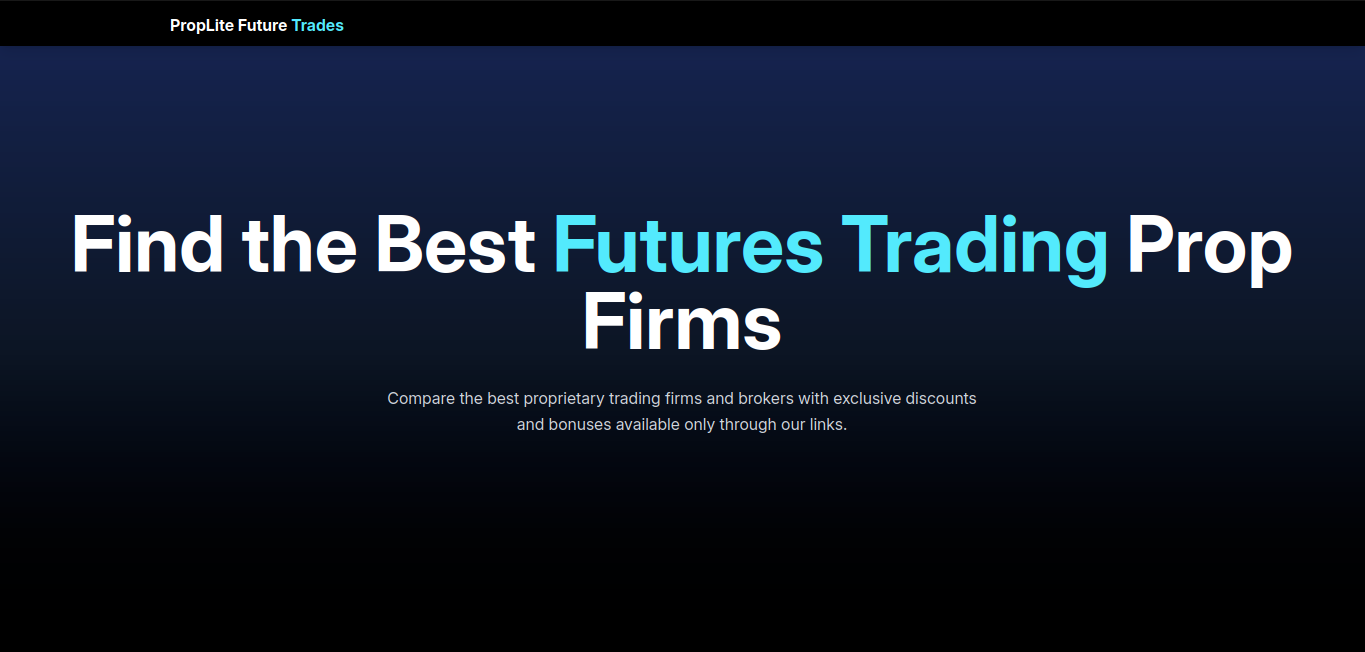
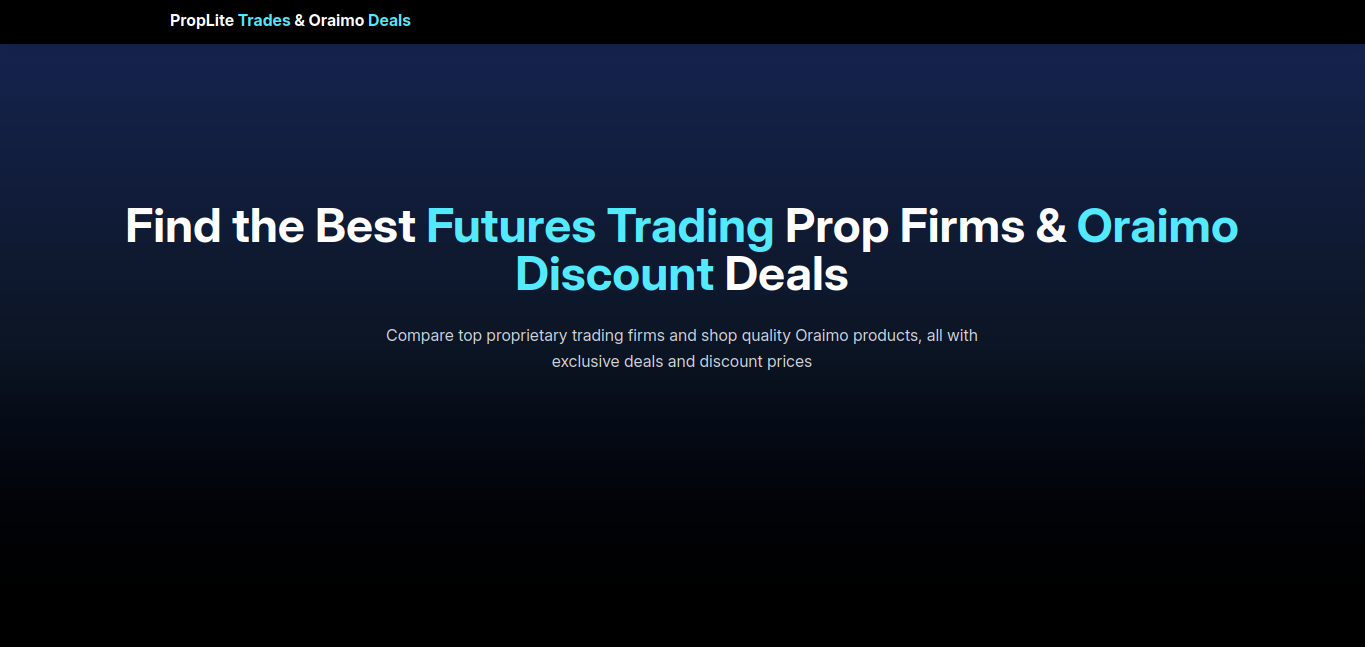
Changed image and small edit

Changed region(s): [[0.0308, 0.3091, 0.9538, 0.6801], [0.1231, 0.0, 0.3077, 0.0618]]

diff --git a/index.html b/index.html
@@ -7,21 +7,21 @@
 	<link href='https://cdn.boxicons.com/fonts/basic/boxicons.min.css' rel='stylesheet'>
 	<link href='https://cdn.boxicons.com/fonts/brands/boxicons-brands.min.css' rel='stylesheet'>
     <title>PropLite Future Trades & oraimo deals</title>
-	<meta name="title" content="PropLite Future Trades – Compare Top Prop Firms & Get Exclusive Bonuses">
-	<meta name="description" content="PropLite Future Trades helps you find the best proprietary trading firms and brokers. Read reviews, compare ratings, and unlock exclusive discounts to start your funded trading journey with confidence.">
+	<meta name="title" content="Proplite trades & Oraimo deals- Compare Top Prop Trading Firms & Shop the Best of Oraimo">
+	<meta name="description" content="Proplite helps you find the best of exclusive funding bonuses & unbeatable discount gadget deals – all in one place.">
 
 	<!-- Open Graph / Facebook -->
 	<meta property="og:type" content="website">
 	<meta property="og:url" content="https://proplite.vercel.app/">
-	<meta property="og:title" content="PropLite Future Trades – Compare Top Prop Firms & Get Exclusive Bonuses">
-	<meta property="og:description" content="PropLite Future Trades helps you find the best proprietary trading firms and brokers. Read reviews, compare ratings, and unlock exclusive discounts to start your funded trading journey with confidence.">
+	<meta property="og:title" content="Proplite trades & Oraimo deals- Compare Top Prop Trading Firms & Shop the Best of Oraimo">
+	<meta property="og:description" content="Proplite helps you find the best of exclusive funding bonuses & unbeatable discount gadget deals – all in one place.">
 	<meta property="og:image" content="/image.png">
 
 	<!-- Twitter -->
 	<meta property="twitter:card" content="summary_large_image">
 	<meta property="twitter:url" content="https://proplite.vercel.app/">
-	<meta property="twitter:title" content="PropLite Future Trades – Compare Top Prop Firms & Get Exclusive Bonuses">
-	<meta property="twitter:description" content="PropLite Future Trades helps you find the best proprietary trading firms and brokers. Read reviews, compare ratings, and unlock exclusive discounts to start your funded trading journey with confidence.">
+	<meta property="twitter:title" content="Proplite trades & Oraimo deals- Compare Top Prop Trading Firms & Shop the Best of Oraimo">
+	<meta property="twitter:description" content="Proplite helps you find the best of exclusive funding bonuses & unbeatable discount gadget deals – all in one place.">
 	<meta property="twitter:image" content="/image.png">
 
 	<!-- Canonical URL -->

diff --git a/src/pages/Home.tsx b/src/pages/Home.tsx
@@ -57,10 +57,7 @@ function Home() {
           <span className="text-cyan-300">Oraimo Discount </span>Deals
         </h2>
         <p className="text-gray-300 text-lg lg:text-xl max-w-3xl mx-auto leading-relaxed">
-          Compare top proprietary trading firms with exclusive discounts — and
-          get access to premium Oraimo accessories to power your lifestyle on
-          and off the charts. All offers available only through our affiliate
-          links.
+          Compare top proprietary trading firms and shop quality Oraimo products, all with exclusive deals and discount prices
         </p>
       </div>
 
